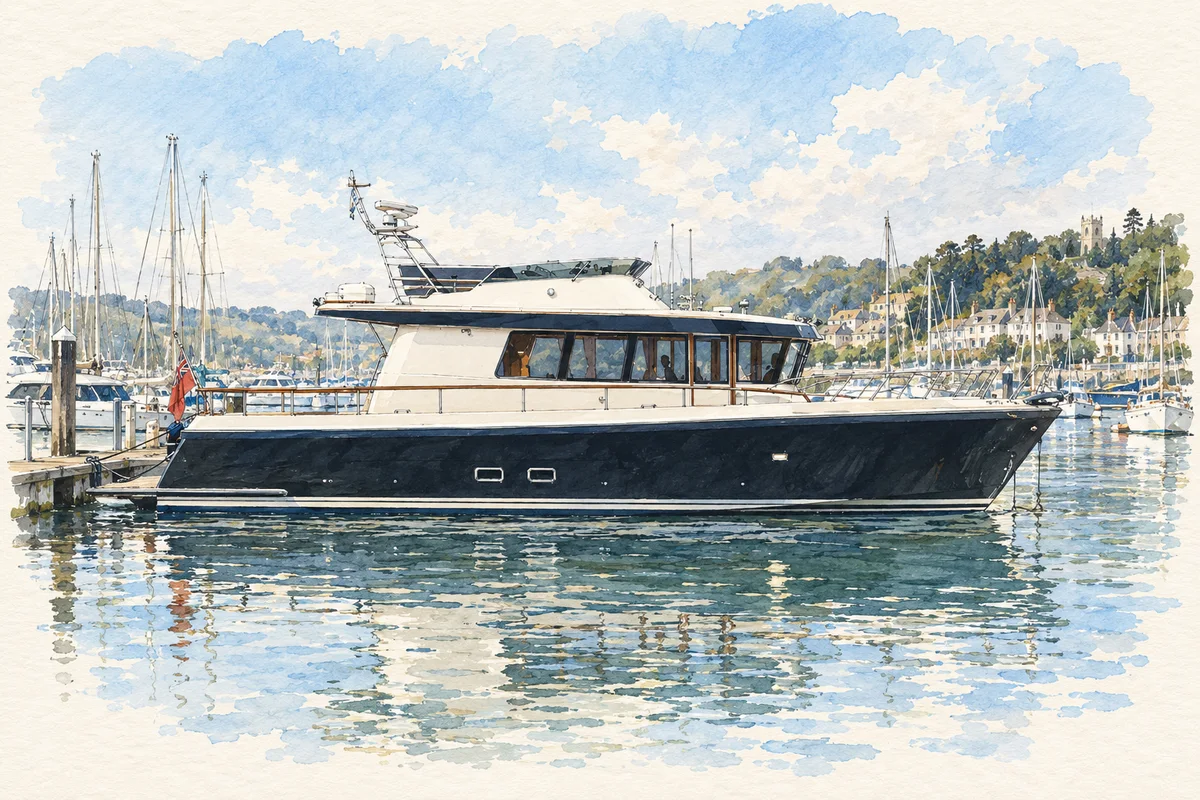
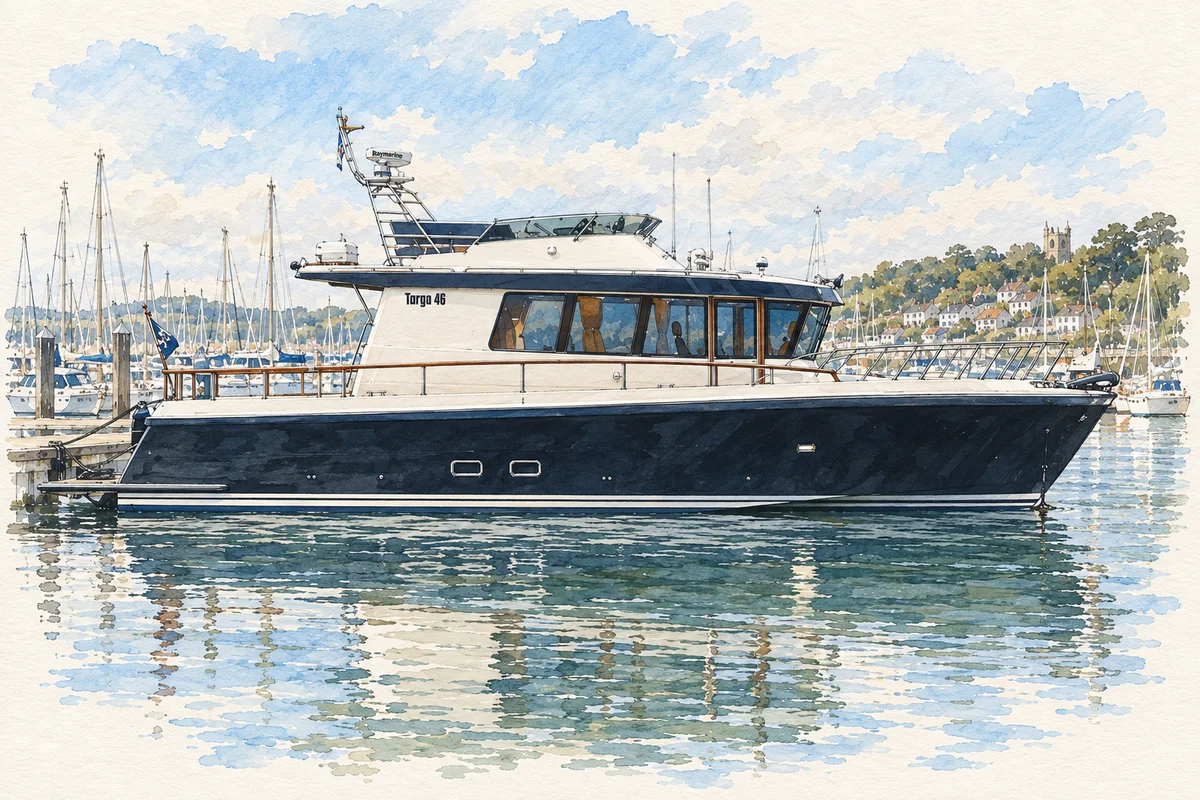
Lady Anne's latest watercolour, the name on her hull
Claude-Session: https://claude.ai/code/session_01G3T6CKFfNQLbKrdFkZ5Y9w

diff --git a/index.html b/index.html
@@ -8,7 +8,7 @@
   <link rel="preconnect" href="https://fonts.googleapis.com">
   <link rel="preconnect" href="https://fonts.gstatic.com" crossorigin>
   <link rel="stylesheet" href="https://fonts.googleapis.com/css2?family=Cormorant+Garamond:ital,wght@0,400;0,500;0,600;1,400;1,500&family=Instrument+Sans:wght@400;500;600&display=swap">
-  <link rel="stylesheet" href="css/site.css?v=202609121309">
+  <link rel="stylesheet" href="css/site.css?v=202609121355">
 </head>
 <body>
   <!-- The front page. The look landed from Claude Design (12 Sep 2026,
@@ -65,6 +65,6 @@
       <span>&copy; 2026</span>
     </footer>
   </div>
-  <script src="js/entry.js?v=202609121309"></script>
+  <script src="js/entry.js?v=202609121355"></script>
 </body>
 </html>
